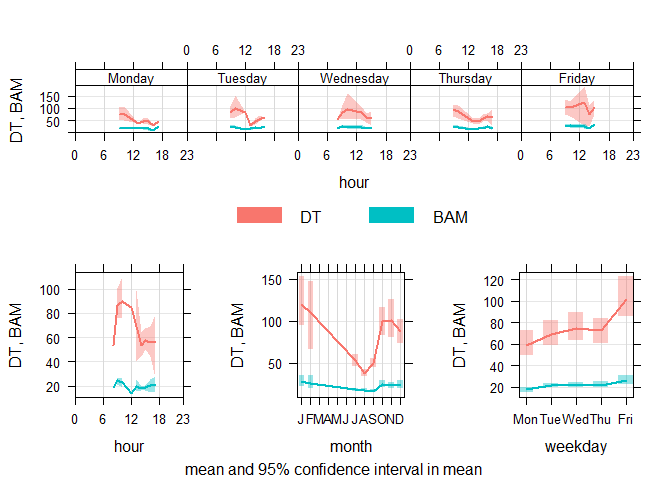
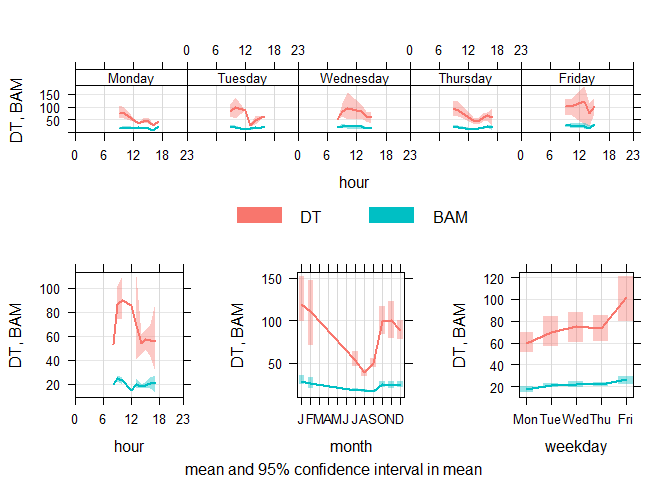
added PM2.5 corrections

diff --git a/R/PM_Ambient.md b/R/PM_Ambient.md
@@ -94,3 +94,70 @@ timeVariation(PM, pollutant=c("DT",  "BAM"))
 ```
 
 ![](PM_Ambient_files/figure-gfm/unnamed-chunk-7-1.png)<!-- -->
+
+## Correction of DustTrak 8530 using this equation- y=0.21x+11.1
+
+## Corrected DustTrak Correlation plot
+
+``` r
+names(PM)<-c("date", "DT_ILK",  "BAM_CSTEP")
+PM$DT_ILK<-(PM$DT_ILK*0.21)+11.1
+t<- Correlation(PM$BAM_CSTEP, PM$DT_ILK, PM, lm, 10, 45, 50, "DT_ILK", "BAM_CSTEP")
+t
+```
+
+![](PM_Ambient_files/figure-gfm/unnamed-chunk-8-1.png)<!-- -->
+
+## t-test
+
+``` r
+t.test(PM$DT_ILK,PM$BAM_CSTEP )
+```
+
+    ## 
+    ##  Welch Two Sample t-test
+    ## 
+    ## data:  PM$DT_ILK and PM$BAM_CSTEP
+    ## t = 5.2747, df = 387.46, p-value = 2.217e-07
+    ## alternative hypothesis: true difference in means is not equal to 0
+    ## 95 percent confidence interval:
+    ##  3.224191 7.056115
+    ## sample estimates:
+    ## mean of x mean of y 
+    ##  26.39297  21.25282
+
+## Box Plot
+
+  - DT\_ILK: Corrected DustTrak 8530 measurements of PM2.5 placed at ILK
+    Labs for everyday 30 mins before and after the rides.
+
+  - BAM\_CSTEP: BAM 1022 measurements of PM2.5 placed at CSTEP
+
+<!-- end list -->
+
+``` r
+names(PM)<-c("hour", "DT_ILK",  "BAM_CSTEP")
+PM_melt<-reshape2::melt(PM, id="hour", measure.vars = c( "DT_ILK",  "BAM_CSTEP") )
+names(PM_melt)<-c("hour","Instrument", "PM")
+p1<-ggplot(PM_melt, aes(Instrument, PM))+ 
+  labs(x="",  y= expression(paste(PM[2.5] ," (", mu, "g",~m^{-3}, ")")),title=paste0(""))+
+  stat_summary(fun.data = f, geom="boxplot", width=0.2, size=1.2)+  
+  stat_summary(fun.y=mean, colour="black", geom="point",size=4)+
+  scale_y_continuous(limits = c(0,50), expand = c(0, 0))+theme_minimal()+
+  theme(legend.text=element_text(size=14),plot.subtitle = element_text(size = 10, face = "bold"),
+        plot.title = element_text(size = 12, face = "bold"), 
+        axis.title = element_text(size=28, face="bold"),axis.text = element_text(size = 28, colour = "black",face = "bold"),
+        panel.border = element_rect(colour = "black", fill=NA, size=1.2),axis.text.x = element_blank() ) + annotate("text", label = "DT_ILK", x ="DT_ILK", y =45, size=6, face="bold")+ annotate("text", label = "BAM_CSTEP", x ="BAM_CSTEP", y =45, size=6, face="bold")
+p1
+```
+
+![](PM_Ambient_files/figure-gfm/unnamed-chunk-10-1.png)<!-- -->
+
+## Time Variations
+
+``` r
+names(PM)<-c("date", "DT",  "BAM")
+timeVariation(PM, pollutant=c("DT",  "BAM"))
+```
+
+![](PM_Ambient_files/figure-gfm/unnamed-chunk-11-1.png)<!-- -->
